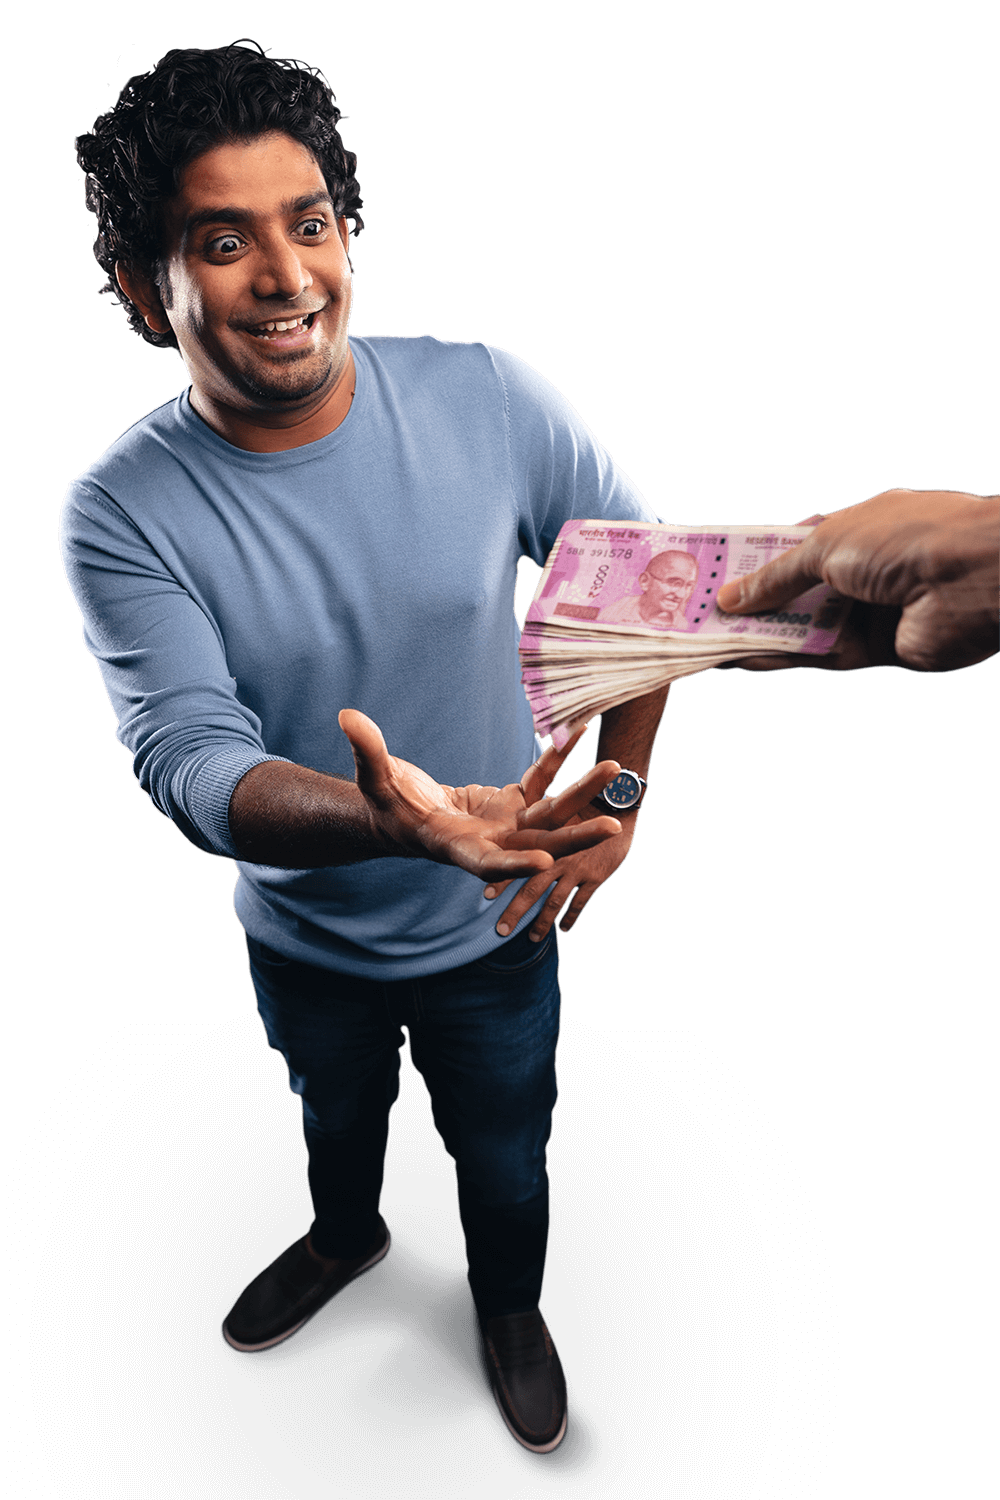
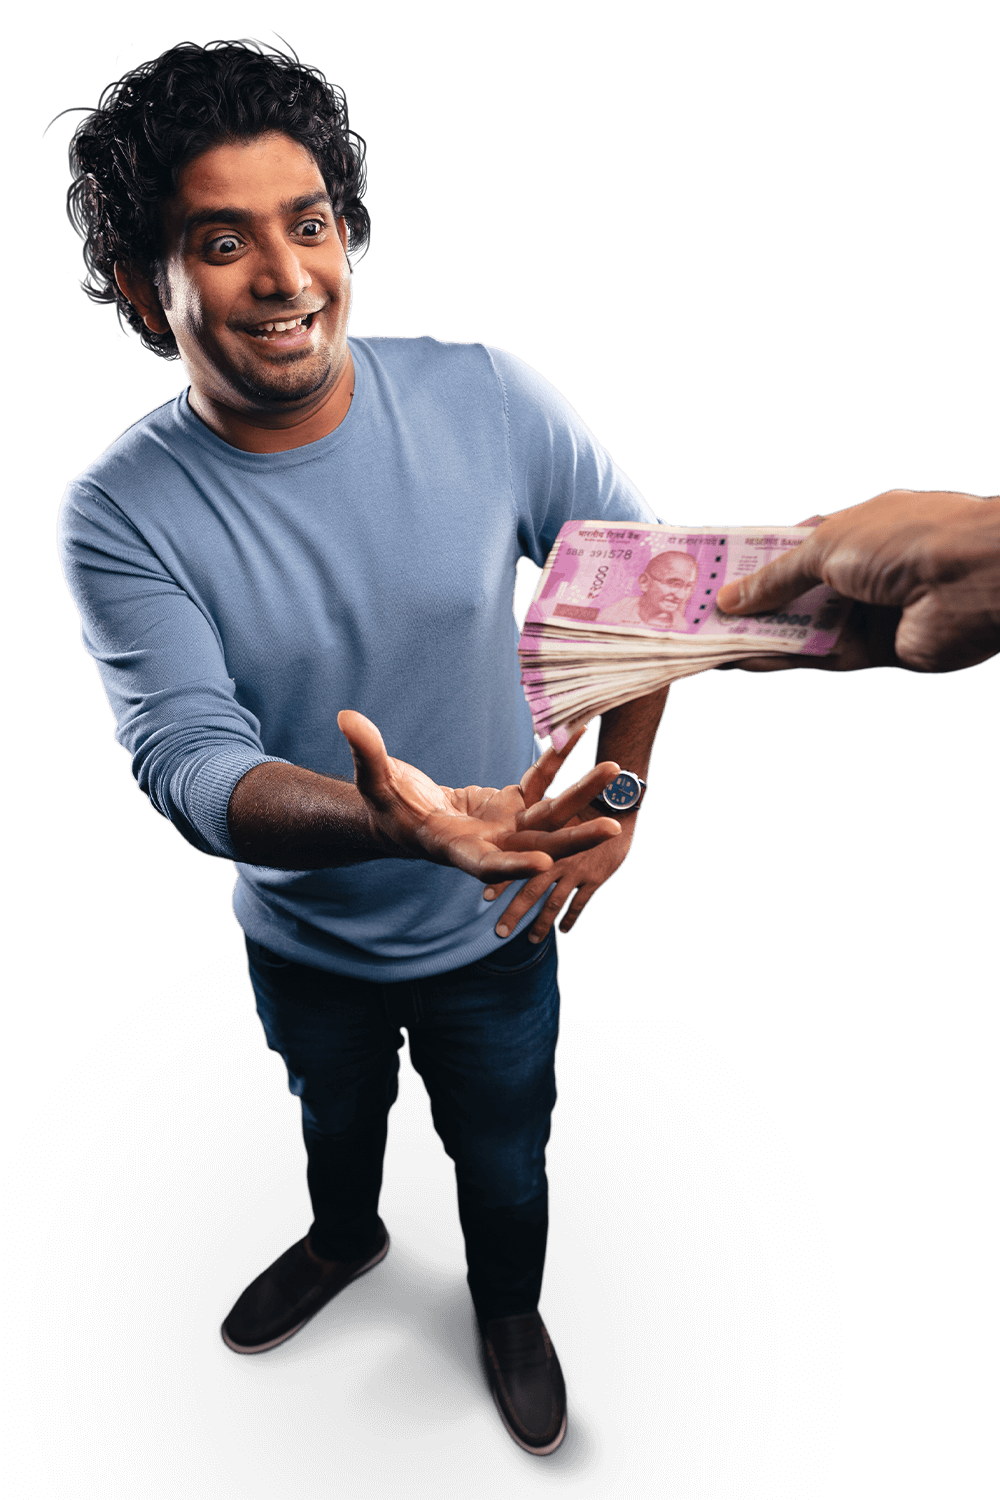
Content: Update Character Cutouts in Sell and Release Gold Section

diff --git a/css/pages/section/sell-gold-section.css b/css/pages/section/sell-gold-section.css
@@ -78,6 +78,12 @@
 .step-cards .rgs4 .card-content .row.m-space {
 	margin-bottom: calc(var(--space-100)*4);
 }
+.step-cards .rgs6 .card-content .bg-img {
+	bottom: 0;
+	right: 0;
+	width: calc(var(--card)*1);
+	transform: scale(0.675) translateX(50%) translateY(24%);
+}
 .step-cards .sgs7 .card-content .bg-img,
 .step-cards .rgs8 .card-content .bg-img {
 	bottom: 0;
@@ -134,6 +140,10 @@
 	.step-cards .sgs5 .card-content .row.m-space,
 	.step-cards .rgs5 .card-content .row.m-space {
 		margin-bottom: calc(var(--space-100)*0);
+	}
+	.step-cards .rgs6 .card-content .bg-img {
+		width: calc(var(--card)*1.5);
+		transform: scale(0.8) translateX(15%) translateY(42%);
 	}
 	.step-cards .sgs6 .card-content .bg-img,
 	.step-cards .rgs4 .card-content .bg-img {

diff --git a/pages/section/release-gold.php b/pages/section/release-gold.php
@@ -211,11 +211,11 @@
 								<div class="columns small-10 space-50-left-right"><div class="h5 medium">Sign Term Sheet</div></div>
 							</div>
 							<div class="row space-200-top space-50-left-right">
-								<div class="columns small-8 small-offset-1 medium-7 space-50-left-right">
+								<div class="columns small-8 small-offset-1 medium-5 space-50-left-right">
 									<div class="h5 medium text-blue-4">We will send our representative with you to close your Gold loan.</div>
 								</div>
 							</div>
-							<div class="row space-200-top space-50-bottom space-50-left-right">
+							<div class="row space-200-top space-200-bottom space-50-left-right">
 								<div class="columns small-12 medium-8">
 									<?php /* -- php hide -- */ /*
 									<a href="" class="watch-video block row fill-neutral-1">
@@ -230,6 +230,7 @@
 									*/ /* -- END: php hide -- */ ?>
 								</div>
 							</div>
+							<div class="bg-img"><img class="block" src="../media/cutout/char-6943.png<?php echo $ver ?>"></div>
 						</div>
 					</div>
 					<div class="step-break columns small-12">
